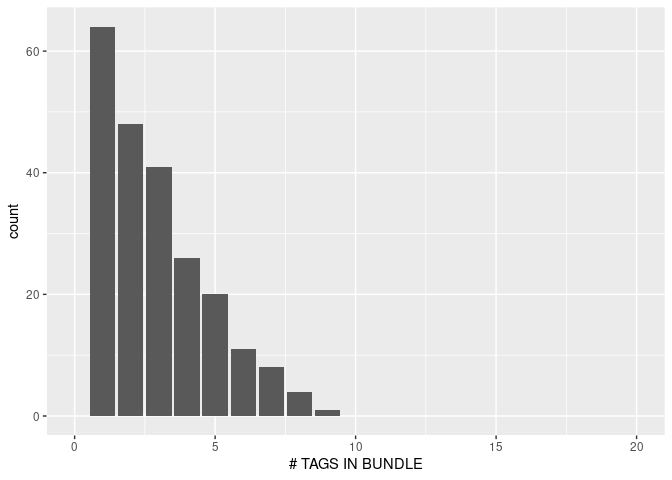
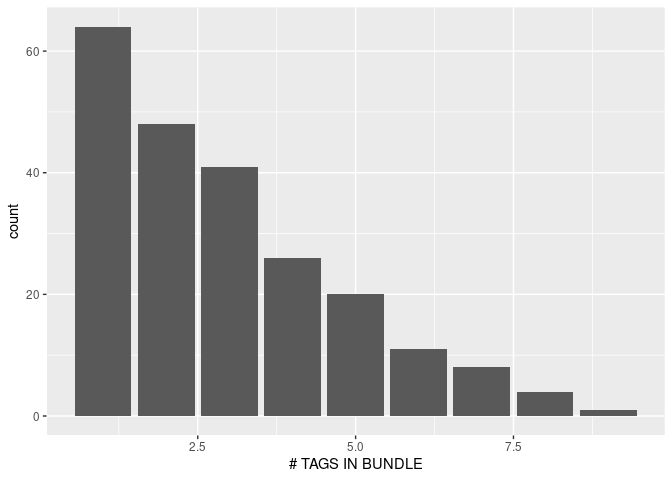
Edit lobsters dataset to create true_lobsters without unnecessary text rows at bottom

diff --git a/proposal/proposal.md b/proposal/proposal.md
@@ -93,6 +93,44 @@ glimpse(lobsters)
     ## $ ...27                    <lgl> NA, NA, NA, NA, NA, NA, NA, NA, NA, NA, NA, N…
     ## $ MISCELLANEOUS            <lgl> NA, NA, NA, NA, NA, NA, NA, NA, NA, NA, NA, N…
 
+Remove unnecessary text rows at bottom of dataset:
+
+``` r
+true_lobsters <- head(lobsters, -4)
+glimpse(true_lobsters)
+```
+
+    ## Rows: 223
+    ## Columns: 28
+    ## $ `TAG COUNT`              <dbl> 90, 206, 31, 161, 183, 191, 43, 111, 201, 123…
+    ## $ `DATE COLLECTED (m-d-y)` <chr> "8/24/2023", "8/24/2023", "8/24/2023", "8/24/…
+    ## $ `# TAGS IN BUNDLE`       <dbl> 1, 1, 4, 1, 5, 2, 6, 5, 9, 1, 2, 2, 4, 3, 4, …
+    ## $ STATE                    <chr> "ME", "ME", "ME", "ME", "ME", "ME", "ME", "ME…
+    ## $ `Z: ZONE`                <chr> "D", "D", "D", "D", "D", "D", "D", "D", "D", …
+    ## $ AREA                     <chr> "1", "1", "1", "1", "1", "1", "1", "1", "1", …
+    ## $ `TAG ID NUMBER`          <chr> "435", "607", "754", "754", "1033", "1033", "…
+    ## $ `TRAP BATCH NUMBER`      <chr> "72", "621", "94", "174", "499", "185", "142"…
+    ## $ `TAG COLOUR`             <chr> "orange", "yellow", "light pink", "yellow", "…
+    ## $ `SHORELINE WHERE FOUND`  <chr> "HART ISLAND", "HART ISLAND", "HART ISLAND", …
+    ## $ `GPS COORDINATES-Lat`    <dbl> 43.90538, 43.90538, 43.90538, 43.90538, 43.90…
+    ## $ `GPS COORD-Long`         <chr> "-69.266659", "-69.266659", "-69.266659", "-6…
+    ## $ TAGYEAR                  <dbl> 2007, 2020, 2010, 2020, 2018, 2021, 2022, 202…
+    ## $ `ADDITIONAL INFO ON TAG` <chr> NA, "also reads NON-CAT", NA, NA, NA, NA, "DM…
+    ## $ `NAMED INDIVIDUAL`       <chr> "NOT IN 2021 DMR LICENSE LIST", "THOMAS YOUNG…
+    ## $ `HOME PORT`              <chr> "N/A", "WINTER HBR", "PORT CLYDE", "PORT CLYD…
+    ## $ ...17                    <lgl> NA, NA, NA, NA, NA, NA, NA, NA, NA, NA, NA, N…
+    ## $ ...18                    <lgl> NA, NA, NA, NA, NA, NA, NA, NA, NA, NA, NA, N…
+    ## $ ...19                    <lgl> NA, NA, NA, NA, NA, NA, NA, NA, NA, NA, NA, N…
+    ## $ ...20                    <lgl> NA, NA, NA, NA, NA, NA, NA, NA, NA, NA, NA, N…
+    ## $ ...21                    <lgl> NA, NA, NA, NA, NA, NA, NA, NA, NA, NA, NA, N…
+    ## $ ...22                    <lgl> NA, NA, NA, NA, NA, NA, NA, NA, NA, NA, NA, N…
+    ## $ ...23                    <lgl> NA, NA, NA, NA, NA, NA, NA, NA, NA, NA, NA, N…
+    ## $ ...24                    <lgl> NA, NA, NA, NA, NA, NA, NA, NA, NA, NA, NA, N…
+    ## $ ...25                    <lgl> NA, NA, NA, NA, NA, NA, NA, NA, NA, NA, NA, N…
+    ## $ ...26                    <lgl> NA, NA, NA, NA, NA, NA, NA, NA, NA, NA, NA, N…
+    ## $ ...27                    <lgl> NA, NA, NA, NA, NA, NA, NA, NA, NA, NA, NA, N…
+    ## $ MISCELLANEOUS            <lgl> NA, NA, NA, NA, NA, NA, NA, NA, NA, NA, NA, N…
+
 ## 3. Data analysis plan
 
 1)  We hope to use tag year and color, \# of tags in bundle, named
@@ -116,20 +154,16 @@ glimpse(lobsters)
     (which represents how many )
 
 ``` r
-ggplot(data = lobsters, mapping = aes(x = `NAMED INDIVIDUAL`)) +
+ggplot(data = true_lobsters, mapping = aes(x = `NAMED INDIVIDUAL`)) +
   geom_bar() 
 ```
 
 ![](proposal_files/figure-gfm/prelim_vis_testing-1.png)<!-- -->
 
 ``` r
-ggplot(data = lobsters, mapping = aes(x = `# TAGS IN BUNDLE`)) +
-  geom_bar() +
-  xlim(0, 20)
+ggplot(data = true_lobsters, mapping = aes(x = `# TAGS IN BUNDLE`)) +
+  geom_bar()
 ```
-
-    ## Warning: Removed 4 rows containing non-finite outside the scale range
-    ## (`stat_count()`).
 
 ![](proposal_files/figure-gfm/age_traps-1.png)<!-- -->
 
